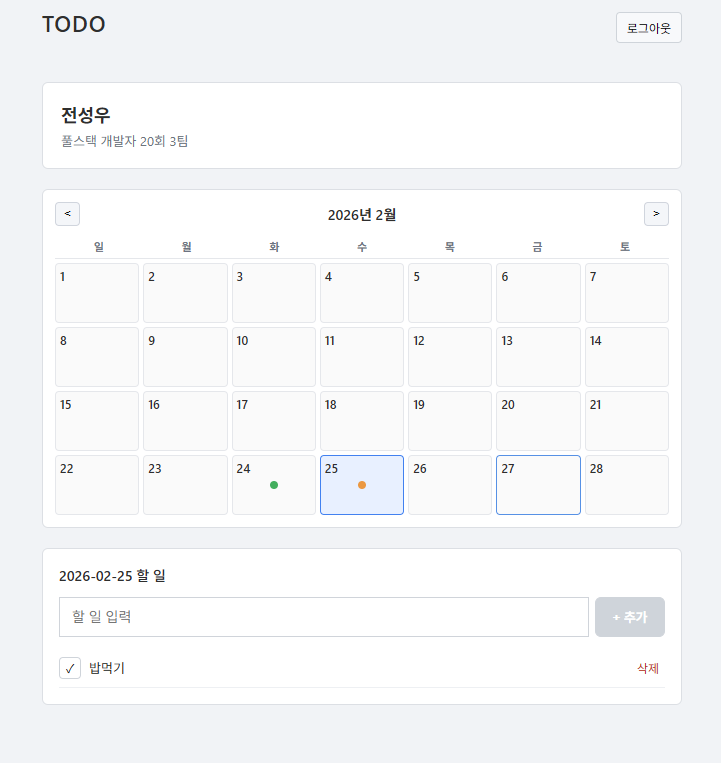
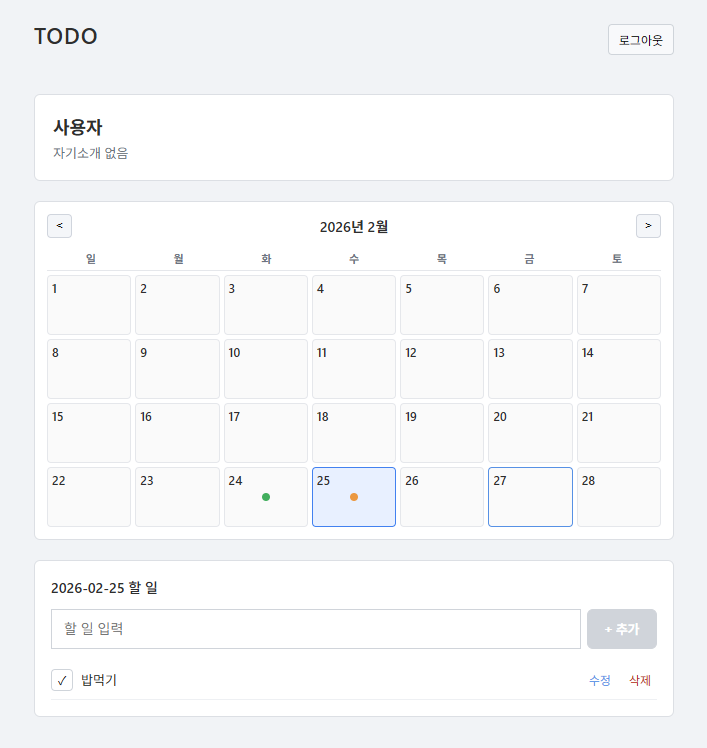
feat: todo edit 기능 추가 및 localStorage 반영

diff --git a/src/pages/HomePage.jsx b/src/pages/HomePage.jsx
@@ -2,13 +2,12 @@ import { useEffect, useMemo, useState } from "react";
 import Calendar from "../components/Calendar";
 import TodoPanel from "../components/TodoPanel";
 
-// 로컬 임시 저장 (백엔드 붙이면 제거/대체)
 const LS_KEY = "todos_array_v1";
 
 function monthKey(dateObj) {
   const y = dateObj.getFullYear();
   const m = String(dateObj.getMonth() + 1).padStart(2, "0");
-  return `${y}-${m}`; // YYYY-MM
+  return `${y}-${m}`;
 }
 
 function groupByDate(list) {
@@ -33,31 +32,24 @@ function readAllTodos() {
 function writeAllTodos(all) {
   try {
     localStorage.setItem(LS_KEY, JSON.stringify(all));
-  } catch {
-    // ignore
+  } catch (e) {
+    console.error("localStorage 저장 실패", e);
   }
 }
 
 export default function HomePage({ user, onLogout }) {
-  // 캘린더 “현재 월”
   const [currentMonth, setCurrentMonth] = useState(() => {
     const now = new Date();
     return new Date(now.getFullYear(), now.getMonth(), 1);
   });
 
-  // 선택 날짜
   const [selectedDate, setSelectedDate] = useState(null);
-
-  // ✅ A안: todos는 배열(서버 응답 형태 그대로)
   const [todos, setTodos] = useState([]);
-
-  // loading / error (백엔드 붙이면 그대로 유지)
   const [loading, setLoading] = useState(false);
   const [error, setError] = useState("");
 
   const currentMonthKey = monthKey(currentMonth);
 
-  // A안이지만 달력 점 표시용으로만 “파생” map 생성(상태는 배열 유지)
   const todosByDate = useMemo(() => groupByDate(todos), [todos]);
 
   const selectedTodos = useMemo(() => {
@@ -65,20 +57,15 @@ export default function HomePage({ user, onLogout }) {
     return todos.filter((t) => t.date === selectedDate);
   }, [todos, selectedDate]);
 
-  // ✅ 월 변경 시 “해당 월 데이터 fetch” 자리 (지금은 localStorage에서 가져오는 임시 구현)
   useEffect(() => {
     setLoading(true);
     setError("");
 
     try {
-      // --- 나중에 백엔드 붙이면 여기만 axios/fetch로 교체 ---
-      // 예: GET /api/todos?month=YYYY-MM
-      // const res = await axios.get(`${VITE_API_BASE}/api/todos?month=${currentMonthKey}`)
-      // setTodos(res.data.todos)
-
-      // 임시: 로컬 저장된 전체 todos에서 이번 달만 필터
       const all = readAllTodos();
-      const monthTodos = all.filter((t) => (t.date || "").startsWith(currentMonthKey));
+      const monthTodos = all.filter((t) =>
+        (t.date || "").startsWith(currentMonthKey)
+      );
       setTodos(monthTodos);
     } catch (e) {
       setError(e?.message || "데이터 로딩 실패");
@@ -89,35 +76,45 @@ export default function HomePage({ user, onLogout }) {
 
   function addTodo(date, text) {
     const newTodo = {
-      id: Date.now(), // 서버 붙이면 서버 id로 대체
+      id: Date.now(),
       date,
       text,
       done: false,
     };
 
-    // 현재 달 상태 업데이트
     setTodos((prev) => [newTodo, ...prev]);
 
-    // 임시 저장: 전체 목록에 반영
     const all = readAllTodos();
-    const nextAll = [newTodo, ...all];
-    writeAllTodos(nextAll);
+    writeAllTodos([newTodo, ...all]);
   }
 
   function toggleTodo(id) {
-    setTodos((prev) => prev.map((t) => (t.id === id ? { ...t, done: !t.done } : t)));
+    setTodos((prev) =>
+      prev.map((t) => (t.id === id ? { ...t, done: !t.done } : t))
+    );
 
     const all = readAllTodos();
-    const nextAll = all.map((t) => (t.id === id ? { ...t, done: !t.done } : t));
-    writeAllTodos(nextAll);
+    writeAllTodos(
+      all.map((t) => (t.id === id ? { ...t, done: !t.done } : t))
+    );
   }
 
   function removeTodo(id) {
     setTodos((prev) => prev.filter((t) => t.id !== id));
 
     const all = readAllTodos();
-    const nextAll = all.filter((t) => t.id !== id);
-    writeAllTodos(nextAll);
+    writeAllTodos(all.filter((t) => t.id !== id));
+  }
+
+  function updateTodo(id, newText) {
+    setTodos((prev) =>
+      prev.map((t) => (t.id === id ? { ...t, text: newText } : t))
+    );
+
+    const all = readAllTodos();
+    writeAllTodos(
+      all.map((t) => (t.id === id ? { ...t, text: newText } : t))
+    );
   }
 
   return (
@@ -152,6 +149,7 @@ export default function HomePage({ user, onLogout }) {
           onAdd={addTodo}
           onToggle={toggleTodo}
           onRemove={removeTodo}
+          onUpdate={updateTodo}
         />
       )}
     </div>

diff --git a/src/components/TodoPanel.jsx b/src/components/TodoPanel.jsx
@@ -1,12 +1,38 @@
 import { useState } from "react";
 
-export default function TodoPanel({ selectedDate, todos, onAdd, onToggle, onRemove }) {
+export default function TodoPanel({
+  selectedDate,
+  todos,
+  onAdd,
+  onToggle,
+  onRemove,
+  onUpdate,
+}) {
   const [input, setInput] = useState("");
+  const [editId, setEditId] = useState(null);
+  const [editText, setEditText] = useState("");
 
   function handleAdd() {
     if (!input.trim()) return;
     onAdd(selectedDate, input.trim());
     setInput("");
+  }
+
+  function handleEditStart(todo) {
+    setEditId(todo.id);
+    setEditText(todo.text);
+  }
+
+  function handleEditSave(id) {
+    if (!editText.trim()) return;
+    onUpdate(id, editText.trim());
+    setEditId(null);
+    setEditText("");
+  }
+
+  function handleCancel() {
+    setEditId(null);
+    setEditText("");
   }
 
   return (
@@ -19,7 +45,11 @@ export default function TodoPanel({ selectedDate, todos, onAdd, onToggle, onRemo
           onChange={(e) => setInput(e.target.value)}
           placeholder="할 일 입력"
         />
-        <button className="addBtn" onClick={handleAdd} disabled={!input.trim()}>
+        <button
+          className="addBtn"
+          onClick={handleAdd}
+          disabled={!input.trim()}
+        >
           + 추가
         </button>
       </div>
@@ -28,20 +58,59 @@ export default function TodoPanel({ selectedDate, todos, onAdd, onToggle, onRemo
         {todos.map((todo) => (
           <li key={todo.id} className={todo.done ? "done" : ""}>
             <div className="todoLeft">
-              {/* 완료 버튼 */}
               <button
-                className={`completeBtn ${todo.done ? "completeActive" : ""}`}
+                className={`completeBtn ${
+                  todo.done ? "completeActive" : ""
+                }`}
                 onClick={() => onToggle(todo.id)}
-                aria-label="완료 토글"
               >
                 ✓
               </button>
-              <span>{todo.text}</span>
+
+              {editId === todo.id ? (
+                <input
+                  className="editInput"
+                  value={editText}
+                  onChange={(e) => setEditText(e.target.value)}
+                />
+              ) : (
+                <span>{todo.text}</span>
+              )}
             </div>
 
-            <button className="deleteBtn" onClick={() => onRemove(todo.id)}>
-              삭제
-            </button>
+            <div className="todoActions">
+              {editId === todo.id ? (
+                <>
+                  <button
+                    className="saveBtn"
+                    onClick={() => handleEditSave(todo.id)}
+                  >
+                    저장
+                  </button>
+                  <button
+                    className="cancelBtn"
+                    onClick={handleCancel}
+                  >
+                    취소
+                  </button>
+                </>
+              ) : (
+                <>
+                  <button
+                    className="editBtn"
+                    onClick={() => handleEditStart(todo)}
+                  >
+                    수정
+                  </button>
+                  <button
+                    className="deleteBtn"
+                    onClick={() => onRemove(todo.id)}
+                  >
+                    삭제
+                  </button>
+                </>
+              )}
+            </div>
           </li>
         ))}
       </ul>

diff --git a/src/styles.css b/src/styles.css
@@ -170,7 +170,7 @@ button[type="submit"]:hover {
 }
 
 /* =========================
-   Calendar - Compact Version
+   Calendar
 ========================= */
 
 .calendar {
@@ -350,6 +350,65 @@ button[type="submit"]:hover {
   border-color: #cfd4da;
   cursor: not-allowed;
   box-shadow: none;
+}
+
+
+/* 버튼 묶음 */
+.todoActions {
+  display: flex;
+  align-items: center;
+  gap: 6px;
+}
+
+/* 수정 버튼 (삭제 버튼 톤과 동일 구조) */
+.editBtn {
+  background: none;
+  border: none;
+  color: #4a90e2;
+  cursor: pointer;
+  font-size: 12px;
+}
+
+.editBtn:hover {
+  opacity: 0.7;
+}
+
+/* 수정 입력 */
+.editInput {
+  height: 30px;
+  padding: 4px 8px;
+  font-size: 13px;
+  border: 1px solid #cfd4da;
+  border-radius: 4px;
+}
+
+/* 저장 버튼 (addBtn 축소 버전 느낌) */
+.saveBtn {
+  background: #4a90e2;
+  color: white;
+  border: none;
+  font-size: 12px;
+  padding: 4px 10px;
+  border-radius: 4px;
+  cursor: pointer;
+}
+
+.saveBtn:hover {
+  background: #3b7ed0;
+}
+
+/* 취소 버튼 */
+.cancelBtn {
+  background: #f8f9fb;
+  border: 1px solid #cfd4da;
+  font-size: 12px;
+  padding: 4px 8px;
+  border-radius: 4px;
+  cursor: pointer;
+}
+
+.cancelBtn:hover {
+  background: #e7f0ff;
 }
 
 /* 리스트 */
